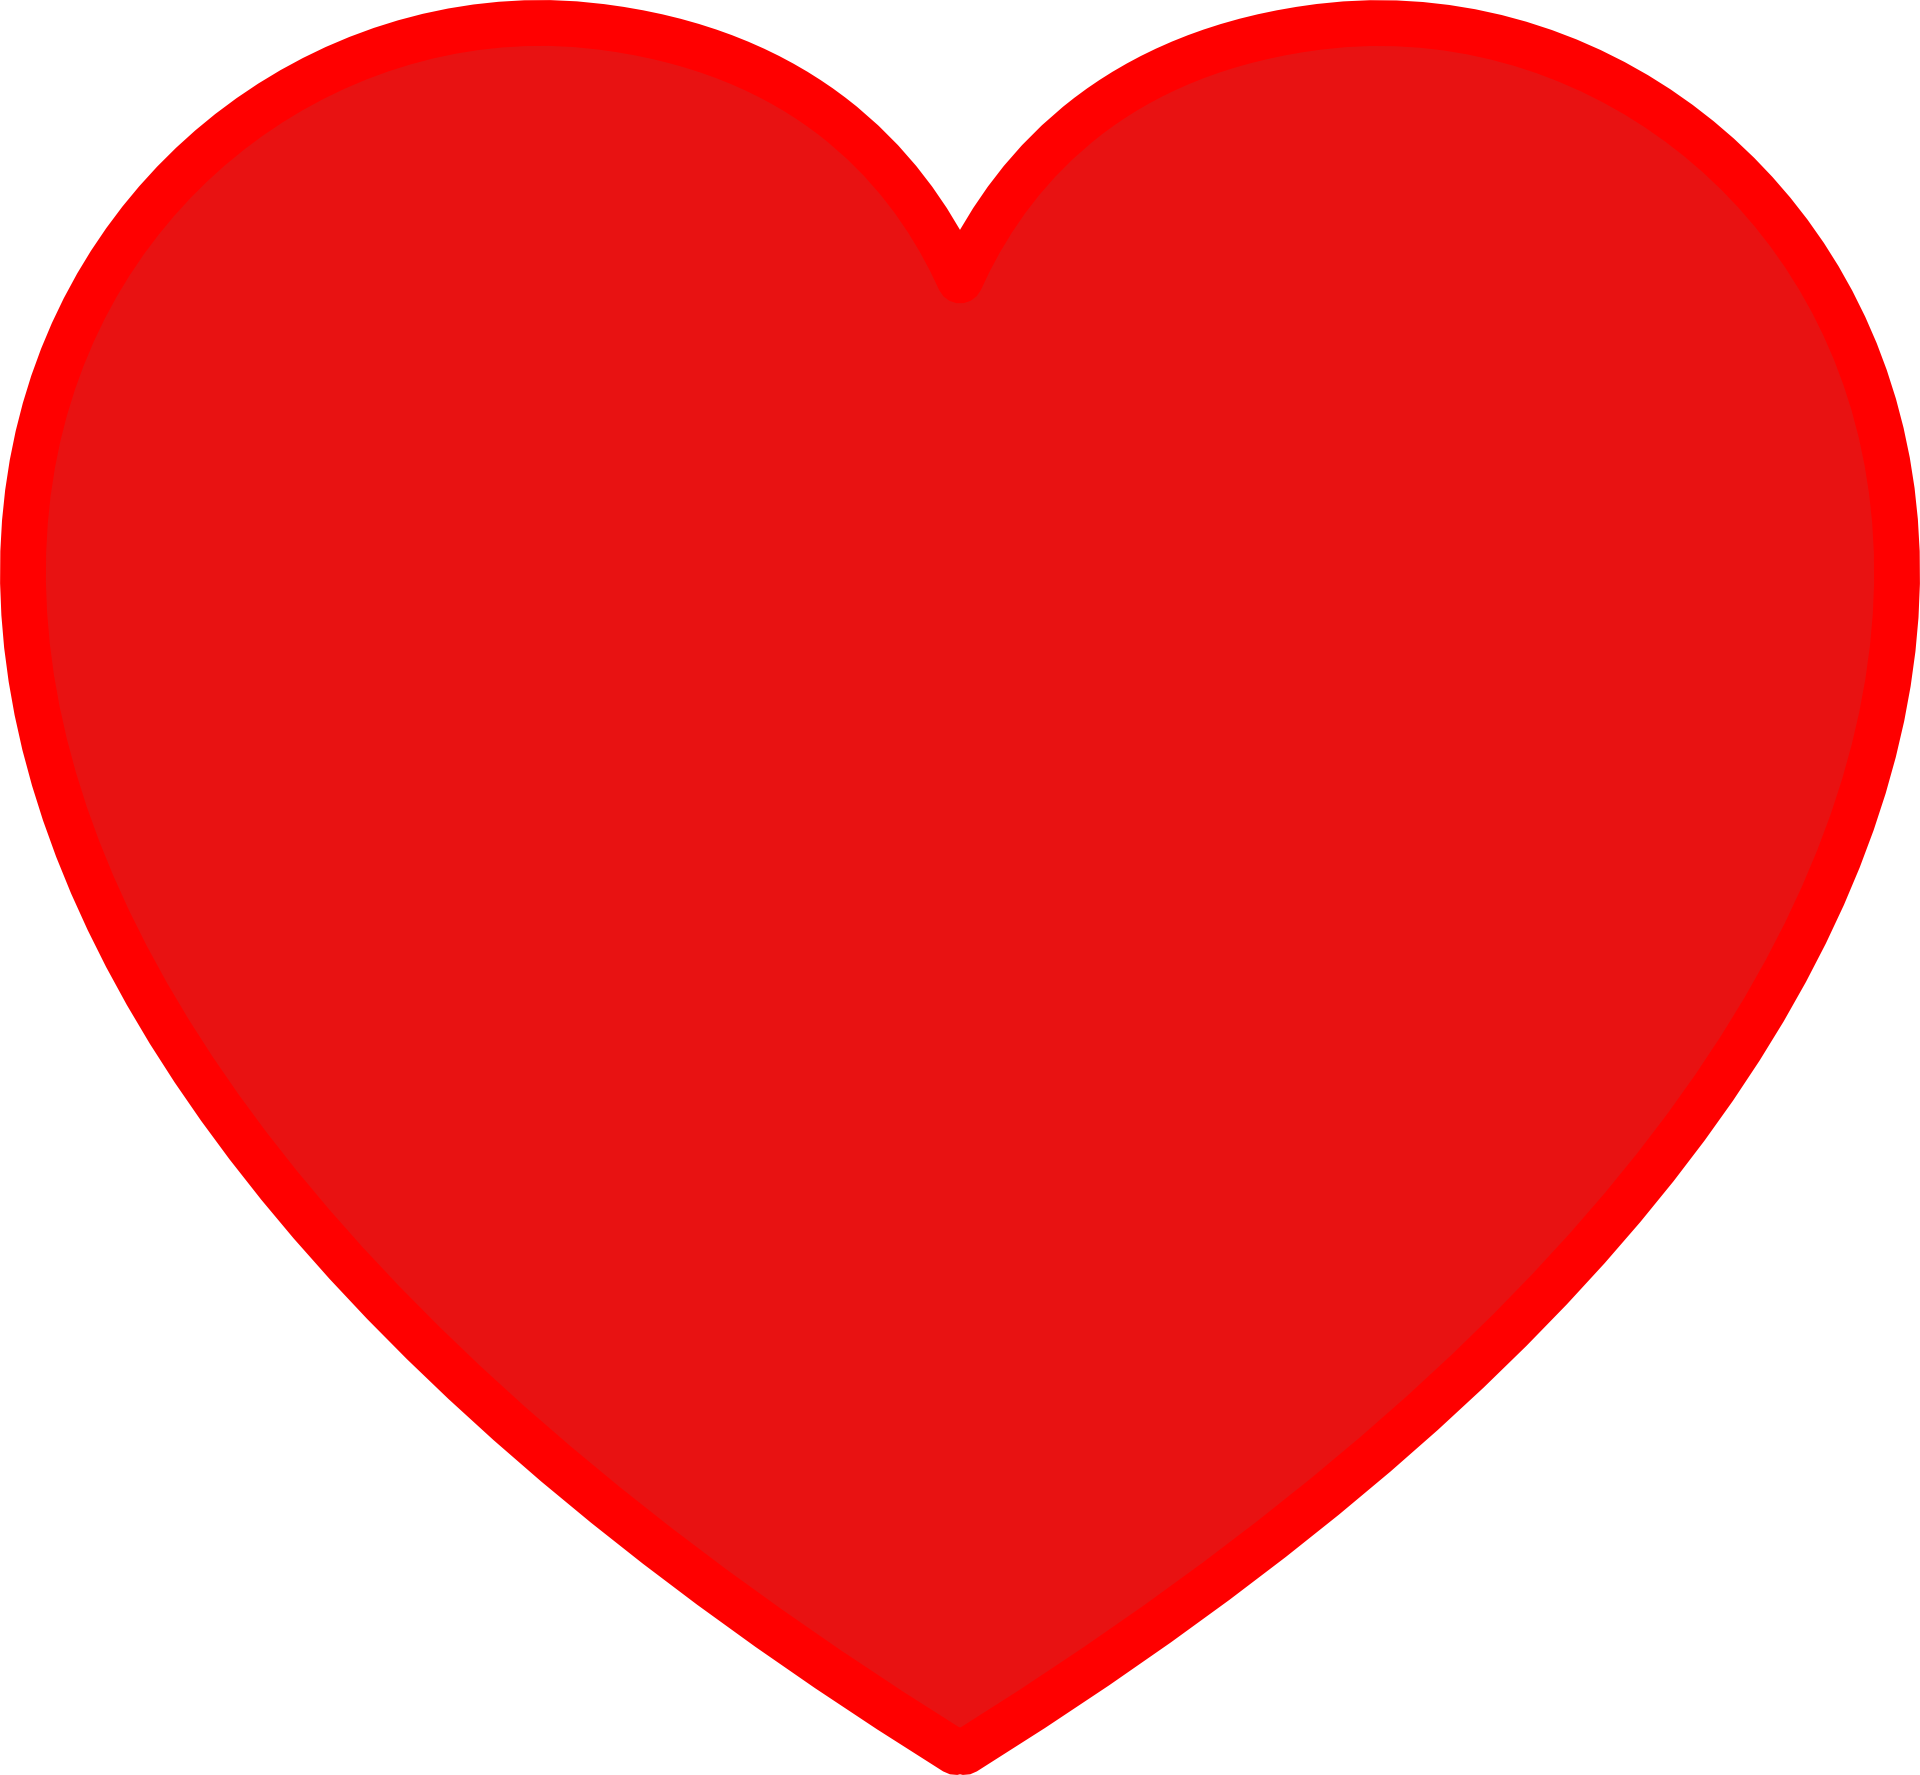
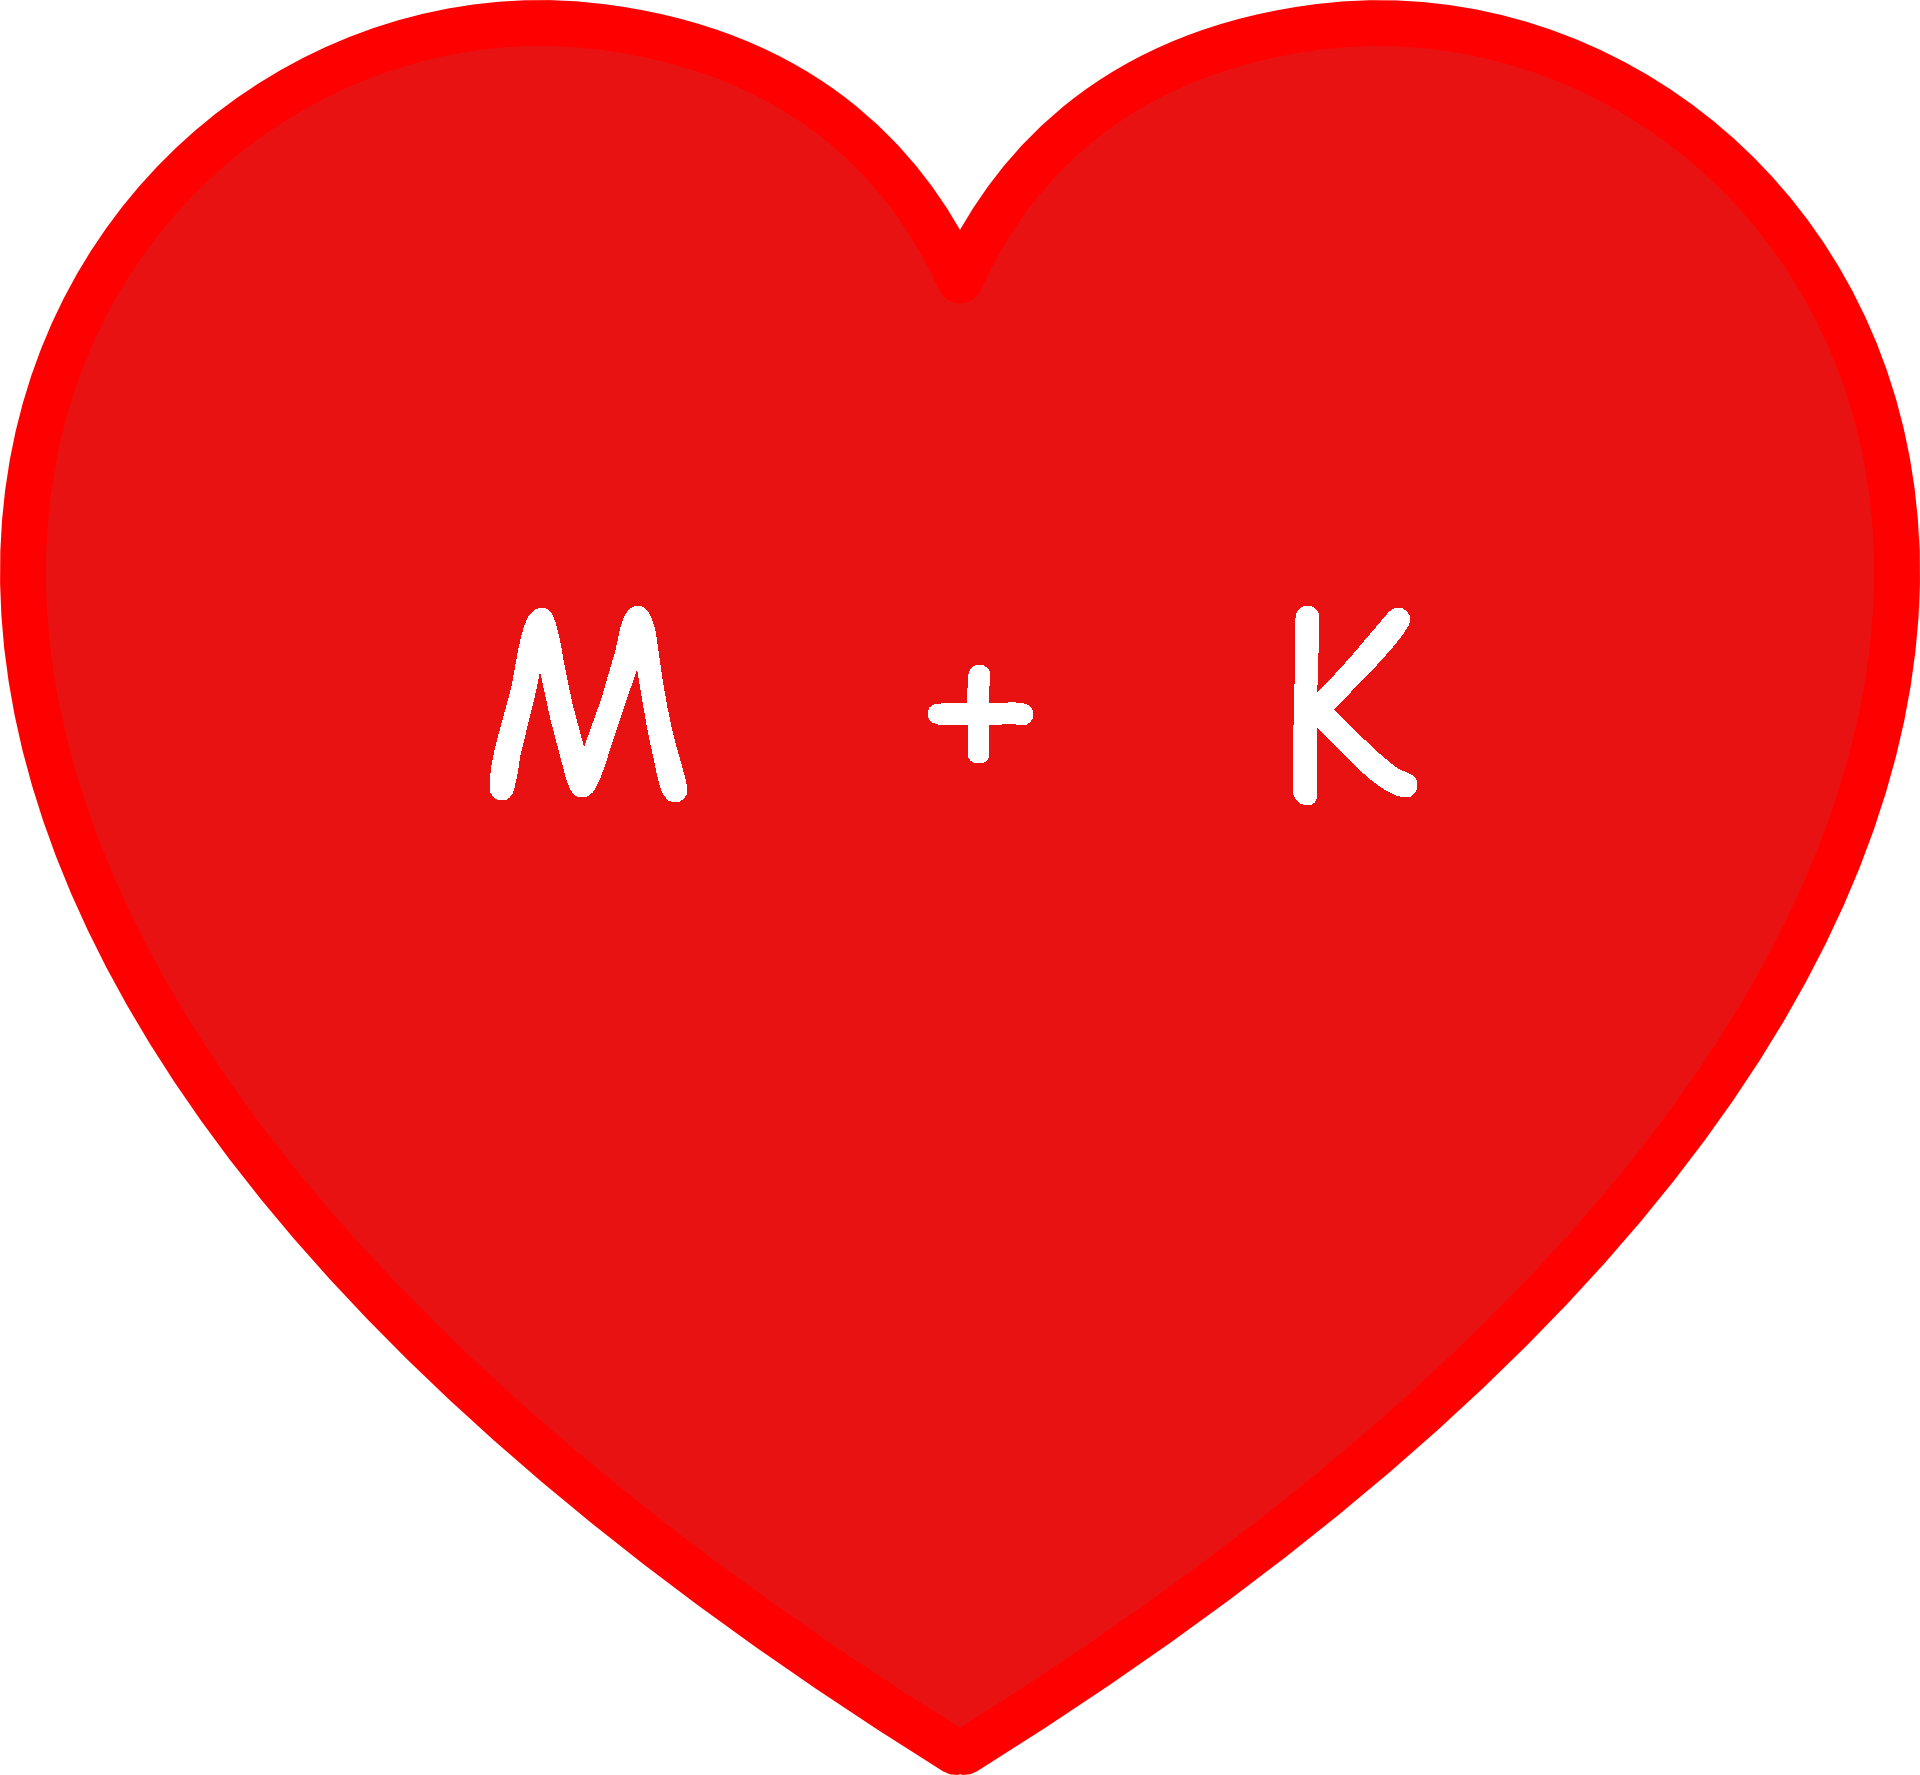
heart with initials + styles improved

diff --git a/kinga-urodziny/src/Reasons.js b/kinga-urodziny/src/Reasons.js
@@ -1,14 +1,14 @@
 const reasons = {
-    '2-9-2023': '...twój uśmiech rozjaśnia moje najszarejsze dni.',
-    '3-9-2023': "...twoje wsparcie dodaje mi sił do pokonywania trudności.",
-    '4-9-2023': "...jesteś moim najlepszym przyjacielem i kochankiem jednocześnie.",
-    '5-9-2023': "...twoja obecność sprawia, że czuję się kompletny(a).",
-    '6-9-2023': "...razem z tobą czuję, że mogę być sobą w stu procentach.",
-    '7-9-2023': "...twój intelekt i rozmowność inspirują mnie do samodoskonalenia się.",
-    '8-9-2023': "...twój entuzjazm i pasja do życia zarażają mnie pozytywną energią.",
-    '9-9-2023': "...nawet w ciszy, bez słów, czuję się zrozumiany(a) przez ciebie.",
-    '10-9-2023': "...twoje ramiona są moim bezpiecznym schronieniem w każdej chwili.",
-    '11-9-2023': "...twoje drobne gesty i troska sprawiają, że czuję się wyjątkowy(a) i ważny(a) dla ciebie.",
+    '02-09-2023': '...twój uśmiech rozjaśnia moje najszarejsze dni.',
+    '03-09-2023': "...twoje wsparcie dodaje mi sił do pokonywania trudności.",
+    '04-09-2023': "...jesteś moim najlepszym przyjacielem i kochankiem jednocześnie.",
+    '05-09-2023': "...twoja obecność sprawia, że czuję się kompletny(a).",
+    '06-09-2023': "...razem z tobą czuję, że mogę być sobą w stu procentach.",
+    '07-09-2023': "...twój intelekt i rozmowność inspirują mnie do samodoskonalenia się.",
+    '08-09-2023': "...twój entuzjazm i pasja do życia zarażają mnie pozytywną energią.",
+    '09-09-2023': "...nawet w ciszy, bez słów, czuję się zrozumiany(a) przez ciebie.",
+    '10-09-2023': "...twoje ramiona są moim bezpiecznym schronieniem w każdej chwili.",
+    '11-09-2023': "...twoje drobne gesty i troska sprawiają, że czuję się wyjątkowy(a) i ważny(a) dla ciebie.",
 }
 
 export const getTodaysReason = (date) => {

diff --git a/kinga-urodziny/src/style.css b/kinga-urodziny/src/style.css
@@ -6,20 +6,23 @@
 }
 
 .date{
-
+    color: rgb(124, 124, 124);
 }
 
 .psst{
-
+    margin-top: 5%;
+    font-size: 1.5em;
 }
 
 .today{
+    margin-top: 1%;
+    margin-bottom: 3%;
+    color: red;
+    font-size: 3em;
 
 }
 
 .heart-icon{
-    /* border: 1px solid black; */
-    /* width: 200px; */
     width: 30%;
     height: 300px;
     display: flex;
@@ -32,5 +35,5 @@
 }
 
 .reason{
-
+    font-size: 2em;
 }

diff --git a/kinga-urodziny/src/App.js b/kinga-urodziny/src/App.js
@@ -42,7 +42,7 @@ const App = () => {
     <div className='container'>
       <div className='date'>{todaysDate}</div>
       <div className='psst'>Pssssstt... Kiki</div>
-      <div className='today'>Dzisiaj Cię kocham bo...</div>
+      <div className='today'>Dzisiaj Cię kocham, bo...</div>
       <div className='heart-icon'><img src={logo}  /></div>
       <div className='reason'>{reason}</div>
     </div>
